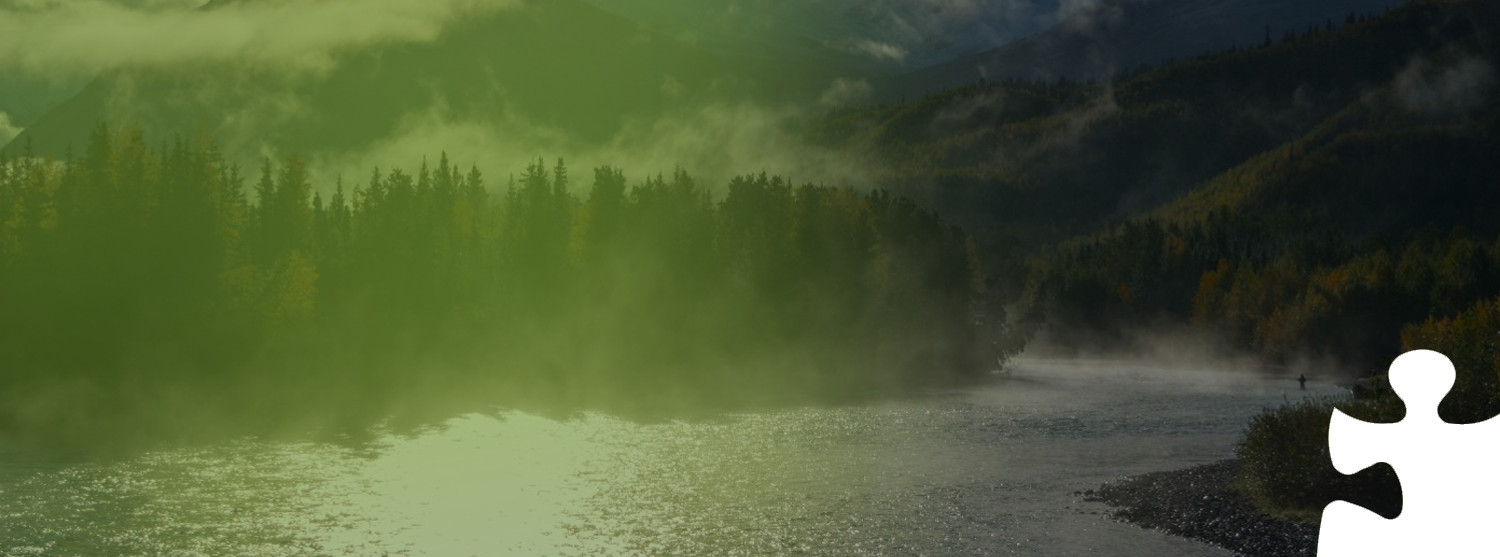
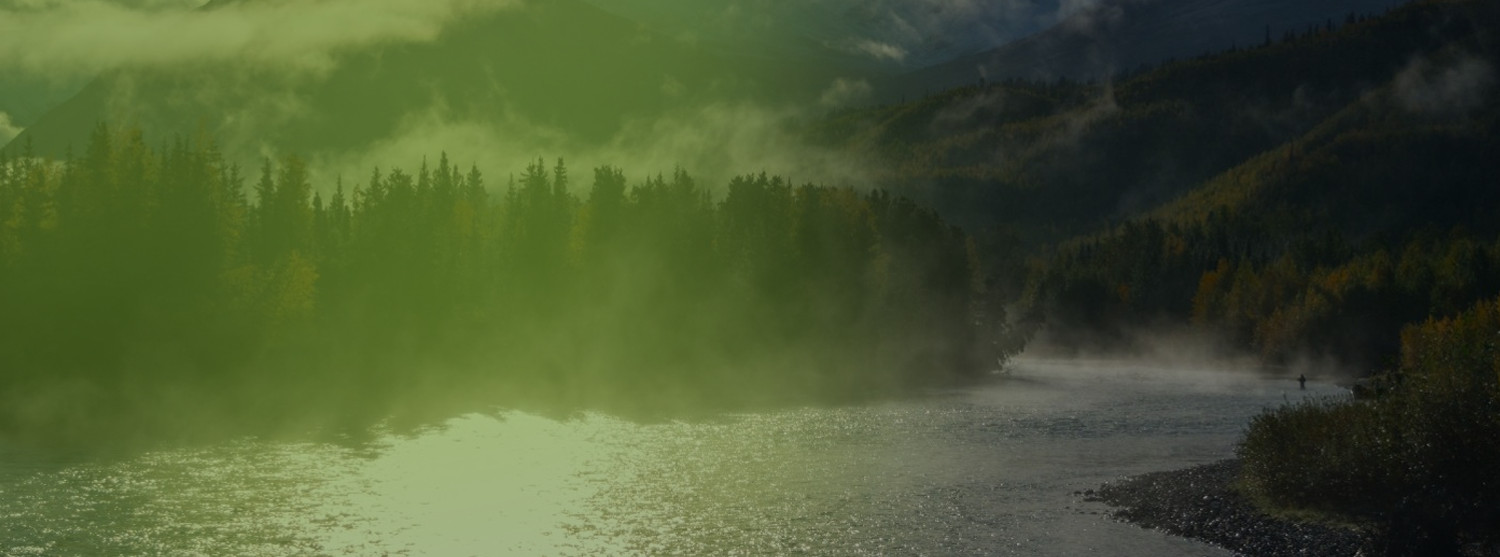
fix header images

Changed region(s): [[0.8587, 0.6104, 1.0, 1.0]]

diff --git a/resources/views/pages/home.blade.php b/resources/views/pages/home.blade.php
@@ -27,7 +27,7 @@
             <div class="splide__track">
                 <div class="splide__list">
                     <div class="splide__slide bg-no-repeat bg-cover bg-center h-[400px] md:h-[725px] relative"
-                        style="background-image: url('/images/header-1.jpg')">
+                        style="background-image: url('/images/homepage-header-1.jpg')">
                         <div class="content-box mr-auto h-full flex justify-center lg:justify-start items-center">
                             <p class="text-4xl md:text-7xl lg::text-8xl font-bold text-white w-1/2">FOR MORE RELAXING DAYS
                                 OFF</p>
@@ -37,7 +37,7 @@
                     </div>
 
                     <div class="splide__slide bg-no-repeat bg-cover bg-center h-[400px] md:h-[725px] relative"
-                        style="background-image: url('/images/header-1.jpg')">
+                        style="background-image: url('/images/homepage-header-2.jpg')">
                         <div class="content-box ml-auto h-full flex justify-center lg:justify-end items-center">
                             <p class="text-4xl md:text-7xl lg::text-8xl font-bold text-white w-1/2">SMART INSURANCE
                                 SOLUTIONS FOR YOUR DAYS ON
